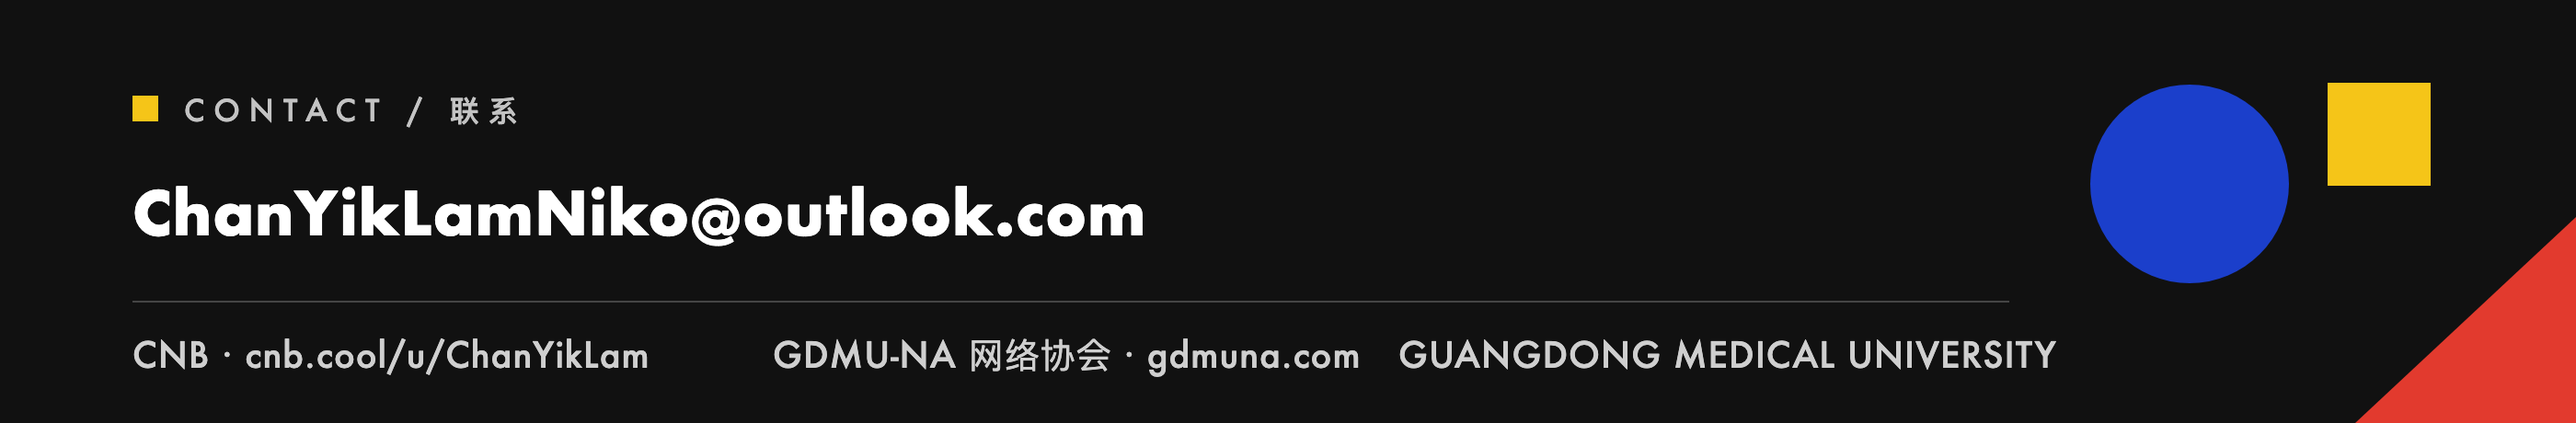
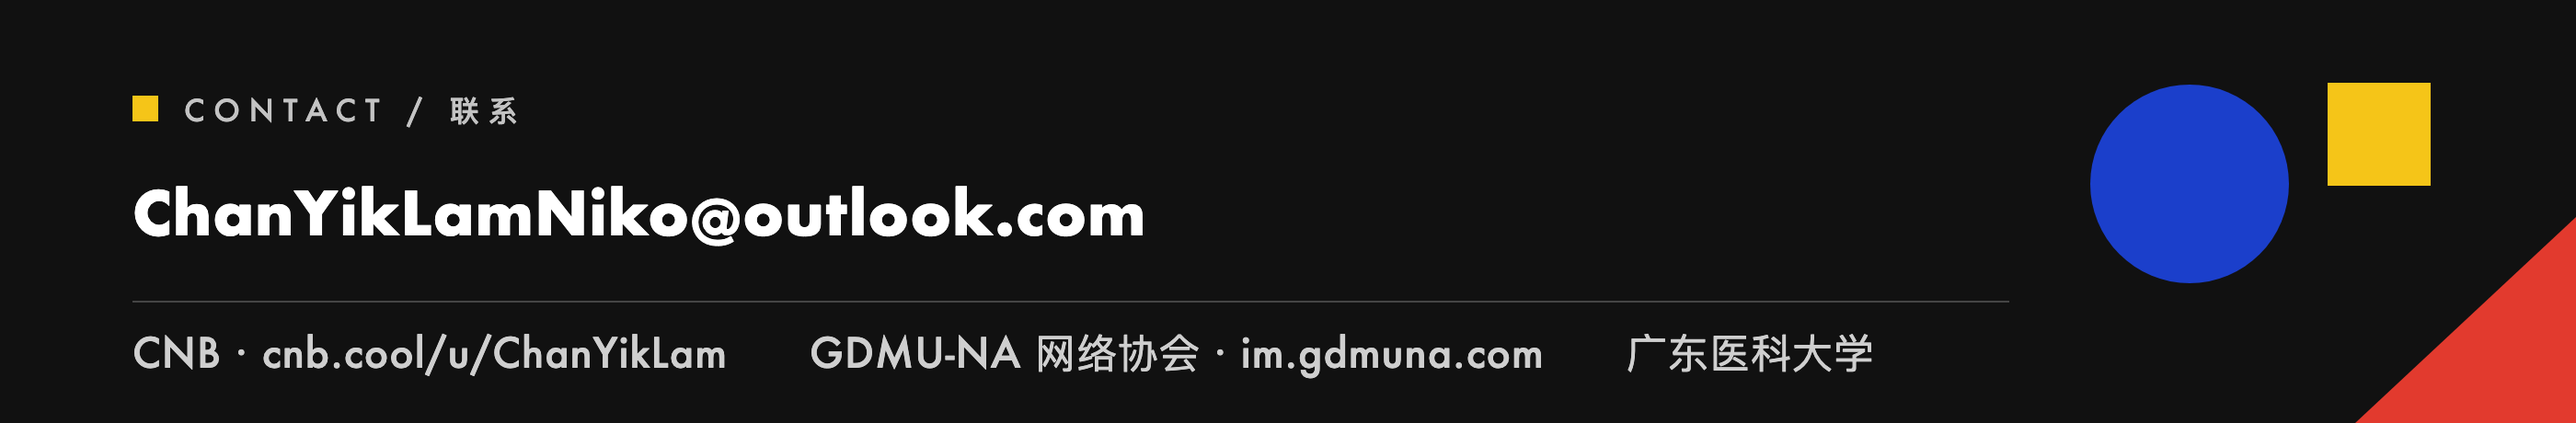
fix: 网络协会官网改为 im.gdmuna.com，页脚链接行放大到 22px

Changed region(s): [[0.0311, 0.7913, 0.8079, 0.8826]]

diff --git a/preview.html b/preview.html
@@ -82,7 +82,7 @@
   <ul>
     <li><b>邮箱</b>　<a href="mailto:ChanYikLamNiko@outlook.com">ChanYikLamNiko@outlook.com</a></li>
     <li><b>CNB</b>　<a href="https://cnb.cool/u/ChanYikLam">cnb.cool/u/ChanYikLam</a></li>
-    <li><b>组织</b>　GDMU-NA 网络协会 · <a href="https://gdmuna.com">gdmuna.com</a></li>
+    <li><b>组织</b>　GDMU-NA 网络协会 · <a href="https://im.gdmuna.com">im.gdmuna.com</a></li>
   </ul>
   <img src="assets/png/bauhaus-footer.png" alt="联系方式">
 

diff --git a/tools/build_assets.py b/tools/build_assets.py
@@ -25,8 +25,8 @@ CONFIG = {
     "school_line": "广东医科大学 · 生物医学工程学院 · 2025 级",
     "role_chip": "GDMU-NA 网络协会 · 会长",
     "email": "ChanYikLamNiko@outlook.com",
-    "links": ["CNB · cnb.cool/u/ChanYikLam", "GDMU-NA 网络协会 · gdmuna.com",
-              "GUANGDONG MEDICAL UNIVERSITY"],
+    "links": ["CNB · cnb.cool/u/ChanYikLam", "GDMU-NA 网络协会 · im.gdmuna.com",
+              "广东医科大学"],
     # 技能卡：两张色块卡，每张最多 3~4 行
     "cards": [
         {
@@ -220,10 +220,11 @@ def build_footer():
         text(72, 128, c["email"], 32, "WHITE", 700, 0.5),
         line(72, 164, 1092, 164, "WHITE", 1, opacity=0.22),
     ]
-    xs = [72, 420, 760]
+    # 三条链接的 x 由实测宽度定：323.5 / 399.4 / 135.0（22px, ls .5），间距 44
+    xs = [72, 440, 884]
     for i, s in enumerate(c["links"]):
         if i < len(xs):
-            b.append(text(xs[i], 200, s, 19, "WHITE", 400, 0.5, opacity=0.8))
+            b.append(text(xs[i], 200, s, 22, "WHITE", 400, 0.5, opacity=0.8))
     b += [
         circle(1190, 100, 54, "BLUE"),
         rect(1265, 45, 56, 56, "YELLOW"),

diff --git a/README.md b/README.md
@@ -19,7 +19,7 @@
 
 - **邮箱**　[ChanYikLamNiko@outlook.com](mailto:ChanYikLamNiko@outlook.com)
 - **CNB**　[cnb.cool/u/ChanYikLam](https://cnb.cool/u/ChanYikLam)
-- **组织**　GDMU-NA 网络协会 · [gdmuna.com](https://gdmuna.com)
+- **组织**　GDMU-NA 网络协会 · [im.gdmuna.com](https://im.gdmuna.com)
 
 ![联系方式](https://cnb.cool/YukinoNO1/profile/-/git/raw/main/assets/png/bauhaus-footer.png)
 
